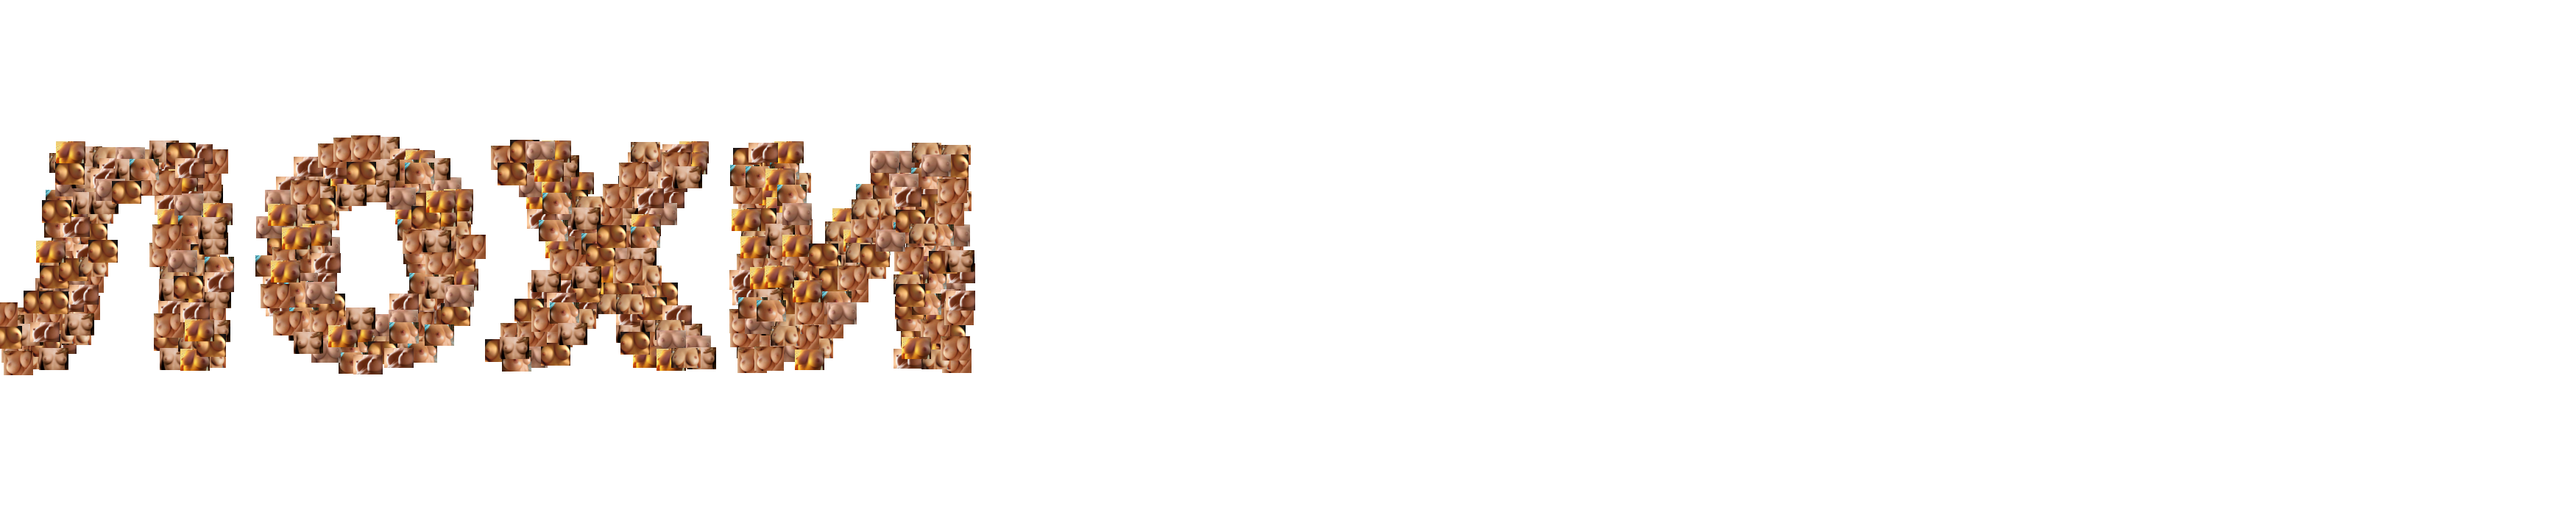
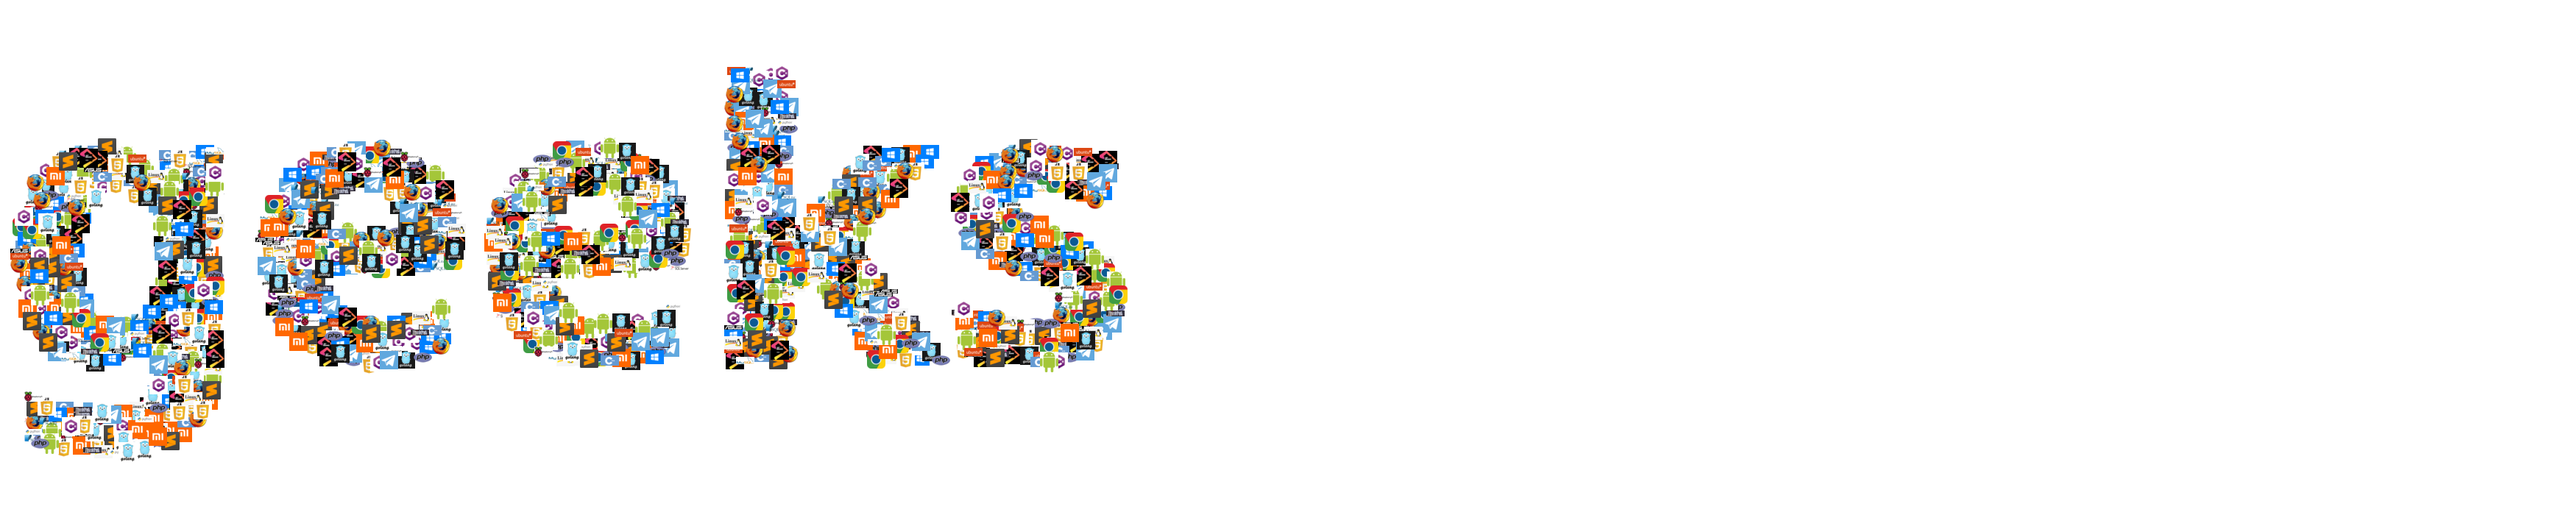
it images

Changed region(s): [[0.0, 0.12, 0.436, 0.9]]

diff --git a/main.go b/main.go
@@ -15,9 +15,9 @@ import (
 const (
 	HEIGHT      = 700
 	WIDTH       = HEIGHT * 5
-	RECT_WIDTH  = 40
+	RECT_WIDTH  = 25
 	//RECT_HEIGHT = 30
-	IMG_FOLDER = "./img/"
+	IMG_FOLDER = "./img_it/"
 )
 
 type dotsManager struct {
@@ -138,7 +138,7 @@ func main() {
 
 
 	// Initialize the context.
-	fg, bg := image.Black, image.White
+	fg, bg := image.Black, image.White //image.NewUniform(color.Gray16{0xaaaa})
 
 	img := image.NewRGBA(image.Rect(0, 0, WIDTH, HEIGHT))
 	draw.Draw(img, img.Bounds(), bg, image.ZP, draw.Src)
@@ -153,7 +153,7 @@ func main() {
 
 	pt := freetype.Pt(2, int(size) - 34)
 
-	s := "лохи"
+	s := "geeks"
 
 	_, err = c.DrawString(s, pt)
 	if err != nil {
